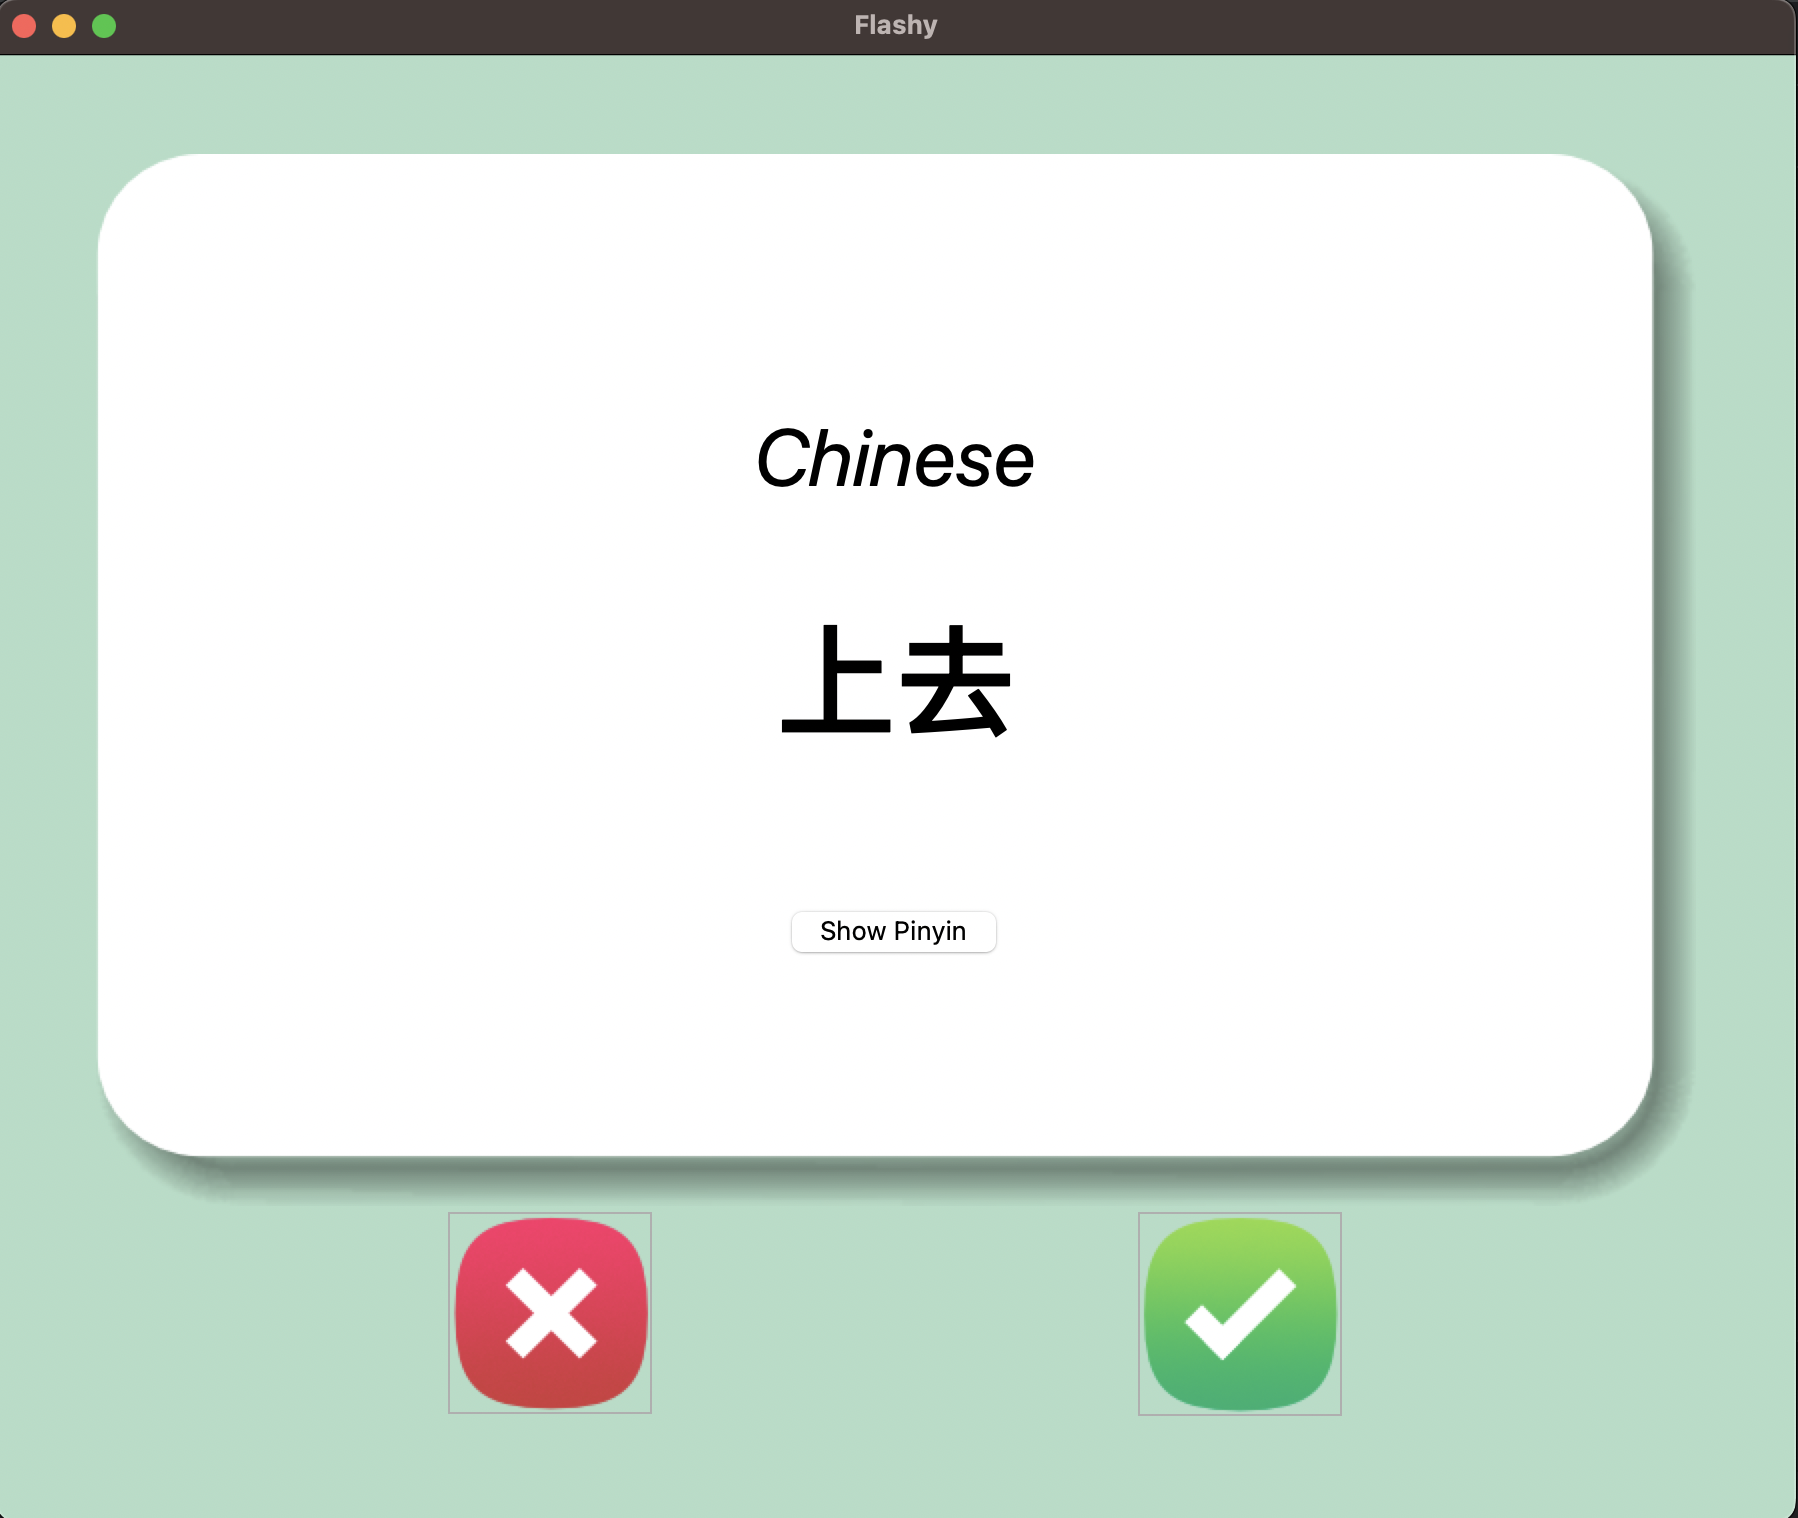
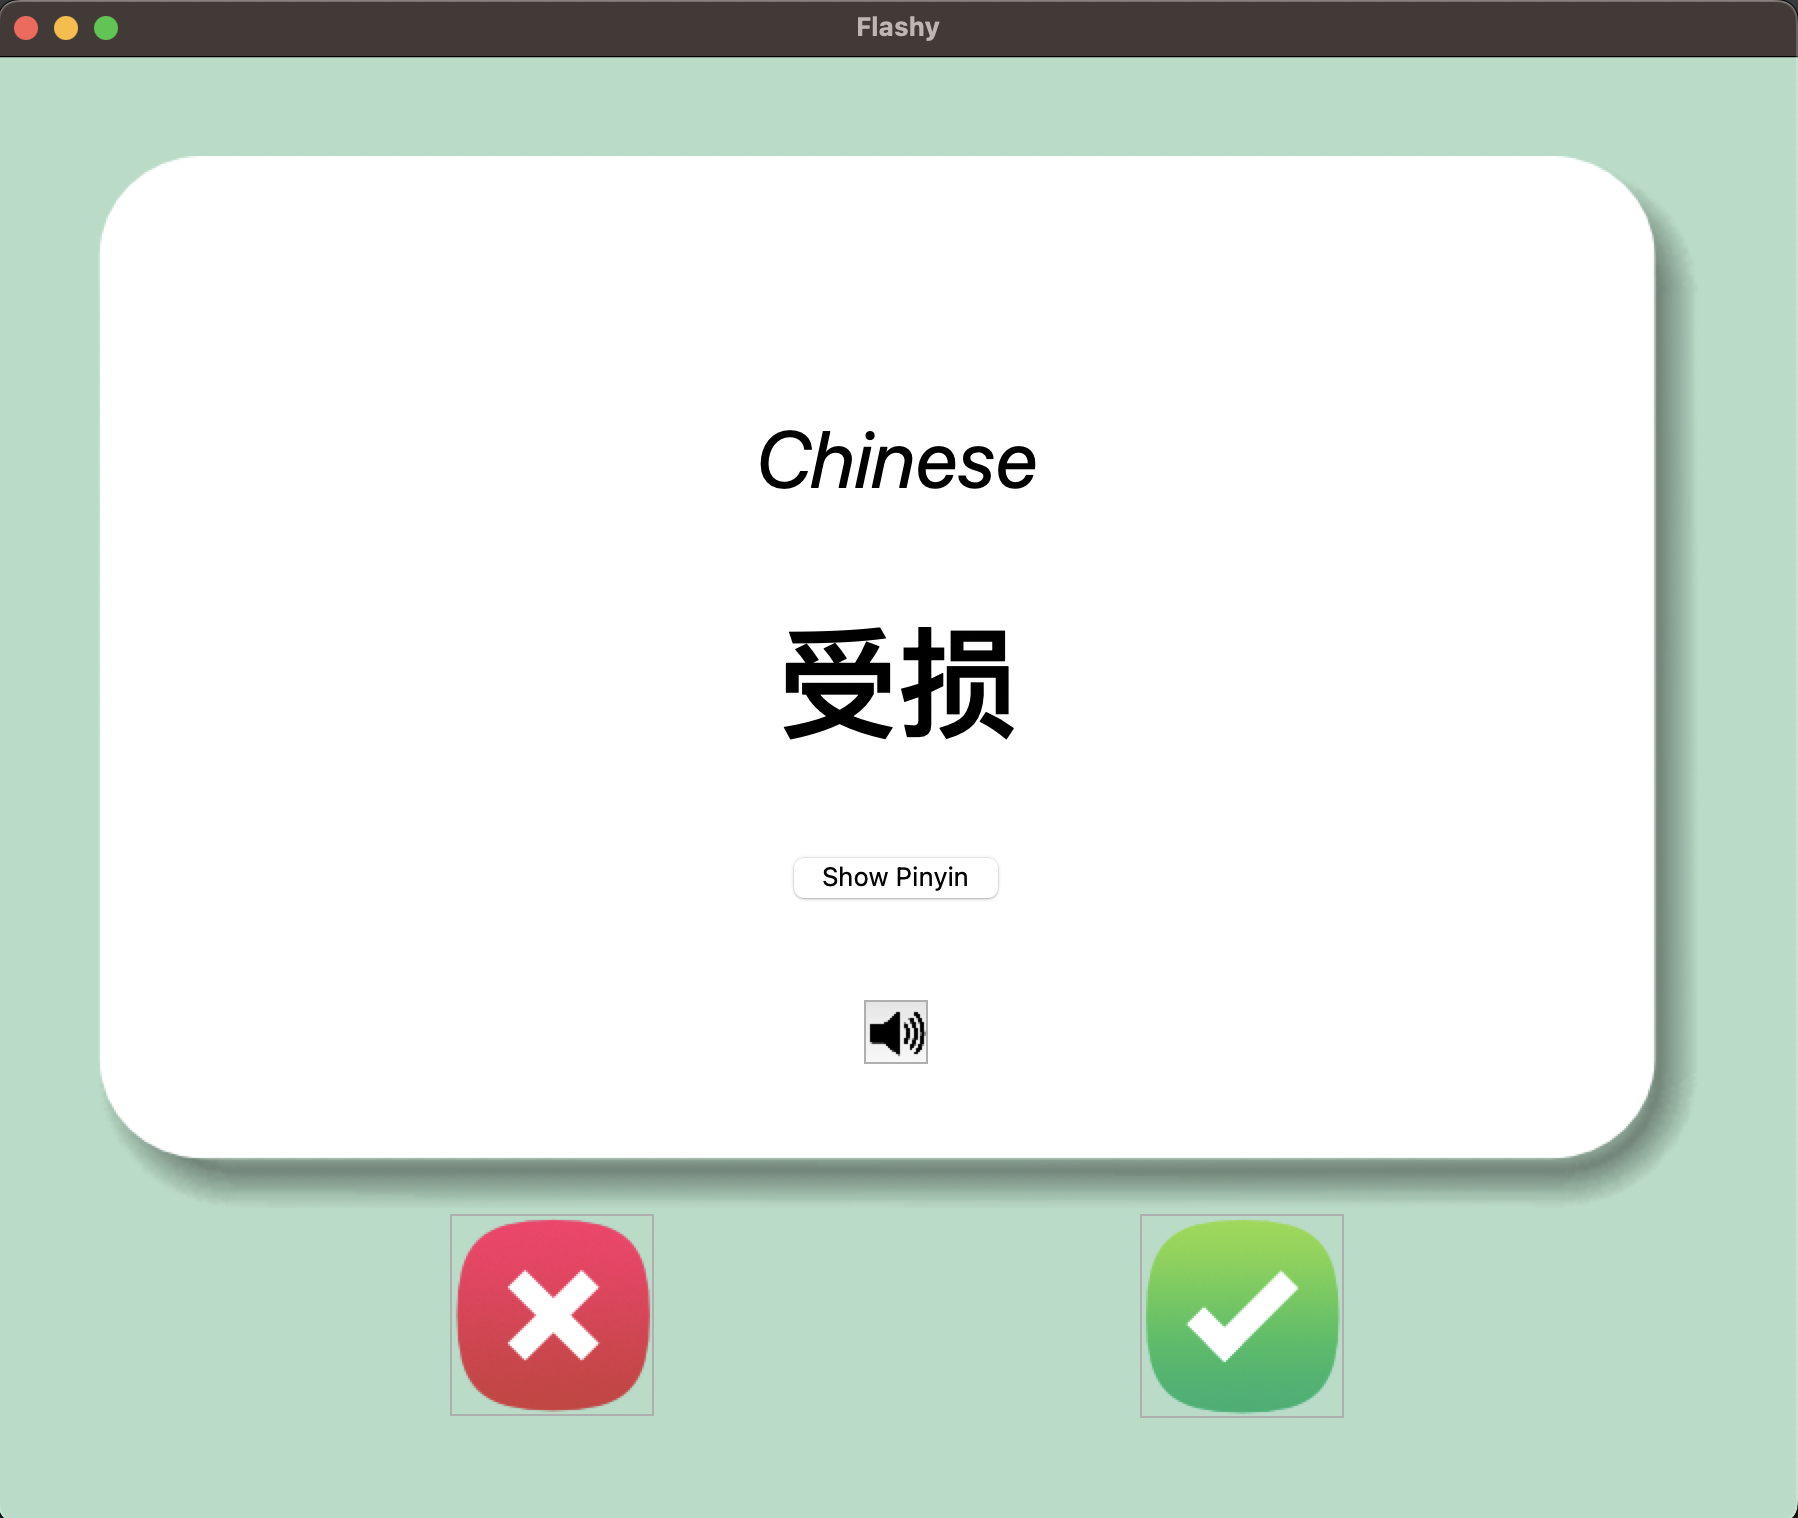
Adding google narrator & button

diff --git a/main.py b/main.py
@@ -2,6 +2,8 @@ import tkinter as tk
 from random import choice
 import pandas as pd
 import pinyin
+from google_speech import Speech
+import sox
 #import re
 
 BACKGROUND_COLOR = "#B1DDC6"
@@ -50,20 +52,24 @@ class App(object):
         self.card_word = self.canvas.create_text(400, 263, fill="#000000", font=("Ariel", 60, "bold"))
         self.card_pinyin_label = self.canvas.create_text(400, 363, fill="#000000", font=("Ariel", 60, "bold"))
         self.canvas.itemconfig(self.card_pinyin_label, state='hidden')
-        self.show_pinyin_button = tk.Button(window, highlightbackground="#FFFFFF", bg="#FFFFFF", text="Show Pinyin", command=self.show_pinyin)  # , height=3, width=10)
         self.canvas.bind("<Button-1>", self.on_click)
 
         # Buttons
         self.correct_img = tk.PhotoImage(file="images/right.png")
         self.incorrect_img = tk.PhotoImage(file="images/wrong.png")
+        self.volume_img = tk.PhotoImage(file="images/volume_icon.png")
+        self.volume_img = self.volume_img.subsample(10)
         self.wrong_button = tk.Button(highlightbackground=BACKGROUND_COLOR, bg=BACKGROUND_COLOR, image=self.incorrect_img, command=self.incorrect)
         self.correct_button = tk.Button(highlightbackground=BACKGROUND_COLOR, bg=BACKGROUND_COLOR, image=self.correct_img, command=self.correct)
+        self.show_pinyin_button = tk.Button(window, highlightbackground="#FFFFFF", bg="#FFFFFF", text="Show Pinyin", command=self.show_pinyin)  # , height=3, width=10)
+        self.narrator_button = tk.Button(window, highlightbackground="#FFFFFF", bg="#FFFFFF", image=self.volume_img, command=self.narrate)
 
         # Grid Layout
         self.canvas.grid(column=0, row=0, columnspan=15, rowspan=10)
         self.wrong_button.grid(column=5, row=10)
         self.correct_button.grid(column=9, row=10)
         self.show_pinyin_button.grid(column=7, row=7)
+        self.narrator_button.grid(column=7, row=8)
 
         # Set up flashcards
         self.next_card()
@@ -74,6 +80,20 @@ class App(object):
         self.show_pinyin_button.lower()  # Lowers button below canvas. i.e. out of view. Much easier than destroying
         # self.show_pinyin_button.destroy()
         self.canvas.itemconfig(self.card_pinyin_label, state='normal')
+
+    def narrate(self):
+        global side
+        global current_card
+        lang = ''
+        text = ''
+        if side == 'front':
+            lang = "zh"
+            text = current_card["Chinese"]
+        elif side == 'back':
+            lang = "en"
+            text = current_card["English"]
+        speech = Speech(text, lang)
+        speech.play()
 
     def flip_card(self):
         global side

diff --git a/README.md b/README.md
@@ -1,12 +1,13 @@
 # Chinese-Flash-Cards
  
-Educational app to assist in learning Chinese (Mandarin). Flash cards to memorize 1000 of the most everyday used words. Includes Chinese->English translations and pinyin. Created using Tkinter.
+Educational app to assist in learning Chinese (Mandarin). Flash cards to memorize 1000 of the most everyday used words. Includes Chinese->English translations and pinyin and narrator. Created using Tkinter.
 
 Features:
 - Flashcards of over 1000 of the most commonly used Chinese words
+- Chinese Pinyin, narrator, and the English translation for each card
 - Mark works 'known' `✓`  or 'unknown' `x`
 - Cards marked as known will not be shown again in the stack
-- Click the card to flip it and see translation
+- Click the card to flip it and see the translation
 - Extra csv files will be generated in the data directory after you run for more review
  
 Chinese words taken from: https://github.com/hermitdave/FrequencyWords/tree/master/content/2018/zh_cn
@@ -14,19 +15,20 @@ Chinese words taken from: https://github.com/hermitdave/FrequencyWords/tree/mast
 TODO:
 - Hookup ChatGPT to generate Chinese sentences
 - google translate -> https://pypi.org/project/googletrans/
-- google translate narrator -> https://pypi.org/project/google-speech/
 - hook up Google translate to do automatic translations (for each character and sentence) -> https://codelabs.developers.google.com/codelabs/cloud-translation-python3#0
 - Create another flash card stack by web scraping https://studychinese101.com/1000-chinese-sentences-in-daily-life.html
 - Look into implementing list from HSK -> https://en.wiktionary.org/wiki/Appendix:HSK_list_of_Mandarin_words
 
 External Packages Used:
 - Chinese Pinyin: https://pypi.org/project/pinyin/
+- Google Translate Narrator: https://pypi.org/project/google-speech/
 
 How to run:
 - Python 3.11.4 is highly recommended to resolve tkinter issues
 - Download repository
 - Open downloaded repository with a command line interface
-- run `pip install pandas pinyin`
+- run `pip install pandas pinyin google-speech sox`
+- make sure you have sox installed! For MacOS terminal: `brew install sox`. This is used to run google-speech
 - run `python main.py`
 - App window will open
 - Click the card to see the translation, and once again to see original card
